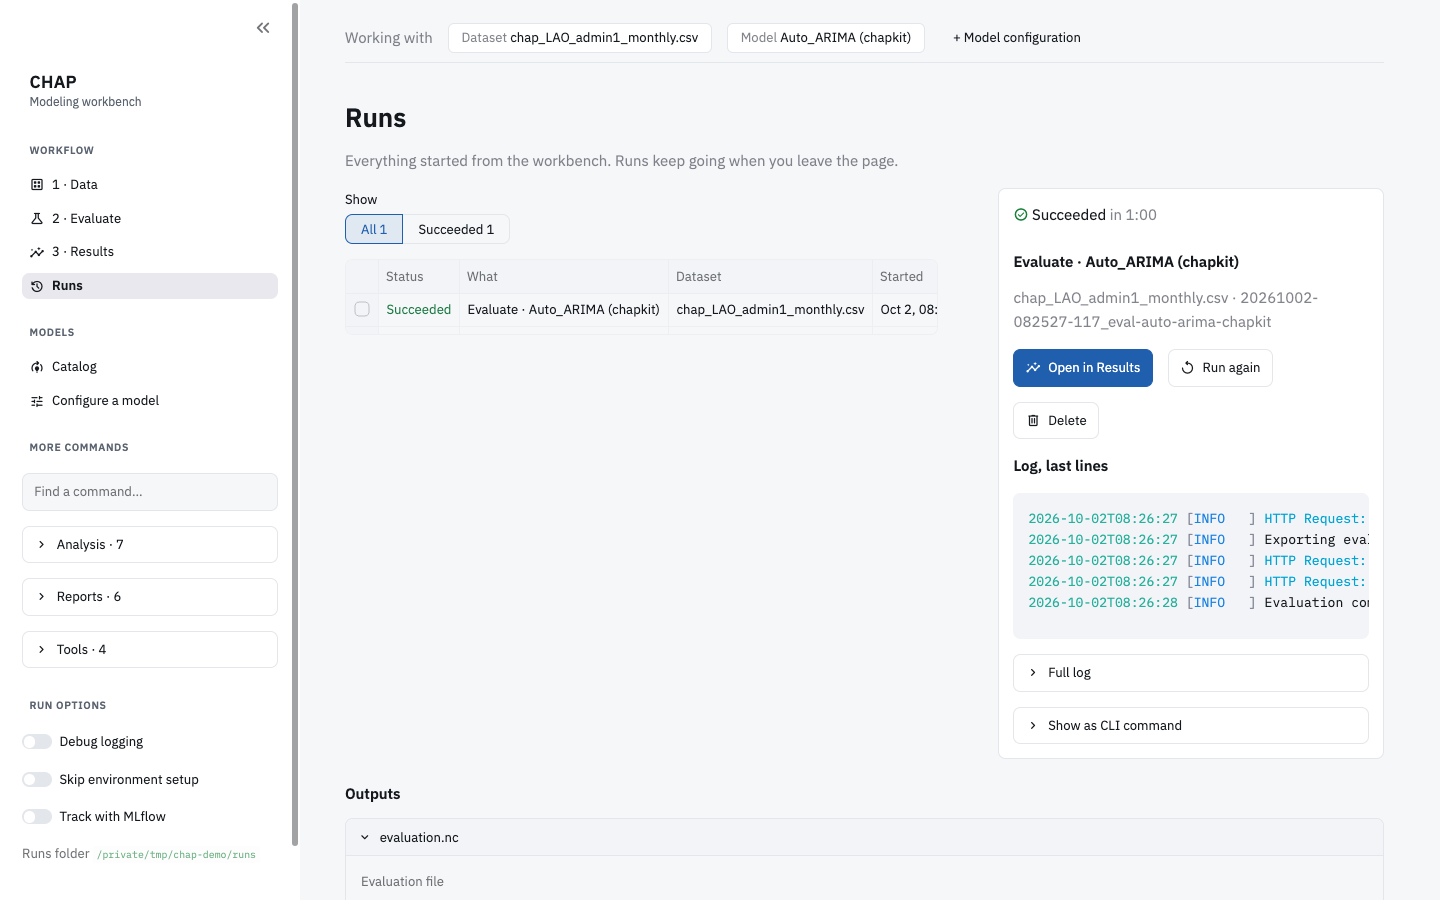
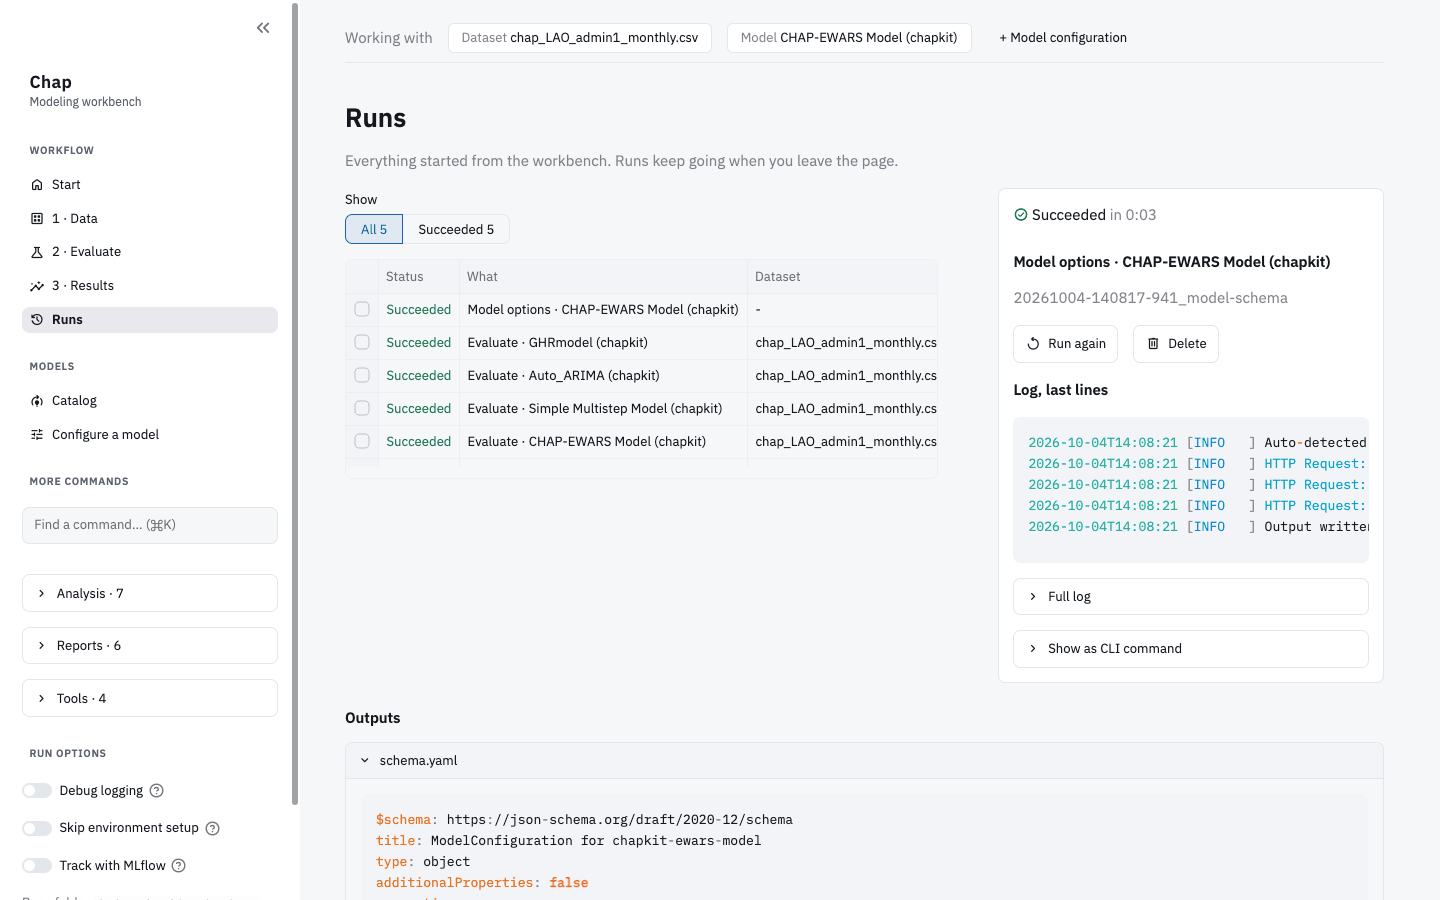
docs: add a step-by-step chap ui walkthrough with four models and refresh the chap ui screenshots

diff --git a/docs/chap-cli/ui-walkthrough.md b/docs/chap-cli/ui-walkthrough.md
@@ -1,0 +1,155 @@
+# Walkthrough: compare models in the browser
+
+This walkthrough uses `chap ui` to find the best of four forecasting models for the Laos province data, step by step. Along the way it starts chapkit models, checks that one works, adds a model the marketplace does not list, and looks at the results on a map. [Chap in the browser](ui.md) describes every page in more detail.
+
+You need:
+
+- `chap ui`, as in [Install and start](ui.md#install-and-start).
+- Docker, running.
+- [chaps](https://github.com/winterop-com/chaps) 0.99.3 or newer, for the steps that start models. Without chaps the models start as plain Docker containers; see [Without chaps](#without-chaps).
+- Disk space and time for the first start of each model: the images are between 1 and 7 GB. Later starts reuse them.
+
+Every page has tooltips: hover a button, or the **?** next to a field, to see what it does.
+
+## 1. Start chap ui
+
+```console
+uv run chap ui
+```
+
+The browser opens on **Start**, which asks what you want to do. The sidebar has the workflow pages, the model **Catalog**, and every other command under **More commands**.
+
+![The Start page](assets/ui/start.png)
+
+## 2. Look at the data
+
+Open **1 · Data**, choose **Example** and **Laos, provinces, monthly**. The dataset is published in [dhis2/climate-health-data](https://github.com/dhis2/climate-health-data) and is downloaded with a map of the provinces: 18 provinces, monthly, from 1998-01 to 2010-12.
+
+![The Data page with the Laos example](assets/ui/data.png)
+
+The **Map** tab colours each province by its annual incidence. A grey province has no case counts: Vientiane Province has none in this dataset.
+
+![The Laos provinces coloured by incidence](assets/ui/data-map.png)
+
+## 3. Start the models
+
+Open **Catalog**. It lists the marketplace models, your own models and the models of a chap-core checkout, with each model's status, covariates and the forecast horizons it supports.
+
+![The model catalog](assets/ui/catalog.png)
+
+Click **Start** on a chapkit model. A dialog says what happens before anything starts: the model runs as a Docker container started with `chaps run`, answers on `localhost`, and keeps running until you stop it. **Port and network** sets a fixed port or lets other machines reach the model. Click **Start instance**.
+
+![Starting a model](assets/ui/start-dialog.png)
+
+Do this for **CHAP-EWARS**, **GHRmodel**, **Simple Multistep** and **Auto-ARIMA**. They appear under **Running on this machine**, the same list `chaps ps` shows in a terminal. The Minimalist Examples are templates for model authors; they start too, but the comparison below leaves them out.
+
+![Six models running on this machine](assets/ui/running.png)
+
+## 4. Check that a model works
+
+On the CHAP-EWARS row, click **Test**: chaps trains and predicts with the model on generated data and reports **1 of 1 model passes**. Turn on **Metrics** to see what the model reports about itself: trainings, predictions, HTTP requests, memory, CPU time and uptime. **Logs** shows the newest log lines first.
+
+![Testing a model and reading its metrics](assets/ui/test-metrics.png)
+
+## 5. Add a model the marketplace does not list
+
+Open **Add a model** at the top of the catalog. Under **Chapkit model**, give a chapkit model's GitHub repository or a Docker image, here `https://github.com/chap-models/chapkit_minimalist_example_r`, optionally with an id, and click **Start instance**. chaps runs the newest published build of the repository.
+
+![Adding a model by its GitHub repository](assets/ui/add-model.png)
+
+## 6. Find the best model for the data
+
+On **Start**, click **Start** under **Find the best model for my data**.
+
+**Your data.** Choose **Use an example** and the Laos data. Chap checks it at once and says whether it can use it.
+
+![Step 1: the data](assets/ui/guide-data.png)
+
+**Models.** Only the models that fit the data are offered, each with the reason. Models already running are marked and listed first. Tick CHAP-EWARS, Simple Multistep, Auto-ARIMA and GHRmodel. Rwanda Malaria BYM is listed as not fitting: it needs a `relative_humidity` column.
+
+![Step 2: the models](assets/ui/guide-models.png)
+
+**Questions.** Choose **3 months** ahead and **Quick: 3 tests**. **Advanced** shows the `chap eval` command the answers set.
+
+![Step 3: two questions](assets/ui/guide-questions.png)
+
+**Run.** Chap tests the four models side by side. You can leave the page; **Start** brings you back. Here it took under three minutes: Simple Multistep 13 seconds, Auto-ARIMA 27, CHAP-EWARS 68 and GHRmodel 161, the two R-INLA models taking longest.
+
+![Step 4: the models being tested](assets/ui/guide-run.png)
+
+**Answer.** The winner has the best overall score, the CRPS, which rewards a model for knowing how uncertain it is as well as for being close.
+
+![Step 5: the answer](assets/ui/guide-answer.png)
+
+In this run:
+
+| Model | Overall score (CRPS) | Off by, on average (MAE) | Within its likely range |
+|---|---:|---:|---:|
+| Simple Multistep | 95.5 | 102.1 | 38% |
+| CHAP-EWARS | 102.1 | 145.0 | 76% |
+| Auto-ARIMA | 114.4 | 136.8 | 48% |
+| GHRmodel | 141.7 | 111.1 | 78% |
+
+Simple Multistep came closest, but its likely range held the real number of cases only 38% of the time; a model that knows how uncertain it is gets close to 80%. CHAP-EWARS and GHRmodel are better calibrated.
+
+The models draw random samples, so another Quick run can rank close models differently: in an earlier run of the same test CHAP-EWARS came first with 96.1 against 96.7 for Simple Multistep. For a decision, choose **Normal** or **Thorough**.
+
+## 7. Look at the details
+
+Click **Open Results**. The four evaluations are compared side by side; bold marks the best value in each column, and **Download CSV** saves the table.
+
+![The metrics of the four evaluations](assets/ui/results.png)
+
+Under **Map**, pick an evaluation and a metric to see where a model does well or badly.
+
+![CHAP-EWARS's CRPS per province](assets/ui/results-map.png)
+
+The plots compare each model's forecasts and their uncertainty with what was observed, for a split period and a province.
+
+![Forecasts against the observed cases](assets/ui/results-plot.png)
+
+## 8. Evaluate a model by hand
+
+The guided comparison runs `chap eval` with settings from your answers. To choose them yourself, pick a model with **Use** in the catalog and open **2 · Evaluate**: set the periods to forecast, the number of test splits and the periods between them, and click **Run evaluation**. The diagram shows the training data and each forecast window.
+
+![The Evaluate page with CHAP-EWARS](assets/ui/evaluate.png)
+
+## 9. Configure a model
+
+Open **Configure a model** and click **Load options**: the form is built from the options the model declares, here CHAP-EWARS's lags, precision and seasonal effects. Save it, and Evaluate and the other commands pass the file to the model.
+
+![Configuring CHAP-EWARS](assets/ui/configure.png)
+
+## 10. Runs and other commands
+
+**Runs** lists every run with its status, how long it took, its log and outputs.
+
+![The Runs page](assets/ui/runs.png)
+
+**Find a command** in the sidebar, or Ctrl+K (⌘K on a Mac), finds any page by its title or CLI name: `plot-backtest` finds Results and Save backtest plot.
+
+![Finding a command by its CLI name](assets/ui/search.png)
+
+## Without chaps
+
+Without chaps on the PATH, **Start** runs the model's image with `docker run`, on `127.0.0.1` and a free port, and **Stop** removes the container; it keeps no data. A model whose image is built only for amd64, such as Rwanda Malaria BYM, runs under emulation on a Mac with Apple silicon. Containers that something else started, such as chaps, are listed and can be used, but not stopped from here.
+
+## Stop the models
+
+Under **Running on this machine**, **Stop** on a row stops one model, keeping its data unless you choose **Stop and delete its data**; **Stop all** stops the models in chap ui's own group. In a terminal:
+
+```console
+chaps stop chapkit_ewars_model
+```
+
+## What each step runs
+
+| In the browser | In a terminal |
+|---|---|
+| Check the data | `chap validate --dataset-csv data.csv` |
+| Start, list and stop models | `chaps run <id>`, `chaps ps`, `chaps stop <id>` |
+| Test a model | `chaps models test <id>` |
+| Evaluate a model | `chap eval --model-name http://localhost:5002 --dataset-csv data.csv --output-file evaluation.nc --backtest-params.n-periods 3 --backtest-params.n-splits 3` |
+| Compare evaluations | `chap export-metrics`, `chap plot-backtest` |
+
+Every page has **Show as CLI command**, and every run keeps the command it ran in `command.txt` in its folder.

diff --git a/docs/chap-cli/ui.md b/docs/chap-cli/ui.md
@@ -4,6 +4,8 @@
 
 The app runs on your own machine and is only reachable from it.
 
+For a step-by-step example with four models, see [Walkthrough: compare models in the browser](ui-walkthrough.md).
+
 ## Install and start
 
 From a chap-core checkout:
@@ -83,7 +85,7 @@ Pick a model, adjust the backtest and run it. This is `chap eval`.
 
 The run continues in the background, so you can leave the page. **Show as CLI command** gives the `chap eval` command it runs.
 
-![The Evaluate page, ready to run Auto-ARIMA on the Laos data](assets/ui/evaluate.png)
+![The Evaluate page, ready to run CHAP-EWARS on the Laos data](assets/ui/evaluate.png)
 
 ### Results
 
@@ -138,7 +140,7 @@ Running models are listed at the top of the catalog, with their state and addres
 - **Test** has the model train and predict on generated data (`chaps models test`).
 - **Stop** stops it. **Stop, keep its data** keeps the model's stored configurations and trained models, so starting it again picks up where it left off. **Stop and delete its data** removes those too.
 
-![A running model with its metrics](assets/ui/running.png)
+![Models running on this machine](assets/ui/running.png)
 
 The list is the same as `chaps ps` in a terminal: models started with `chaps run` there show up here, and the other way round. **Stop all** stops the models `chap ui` started and leaves models in other `chaps run` groups alone.
 
